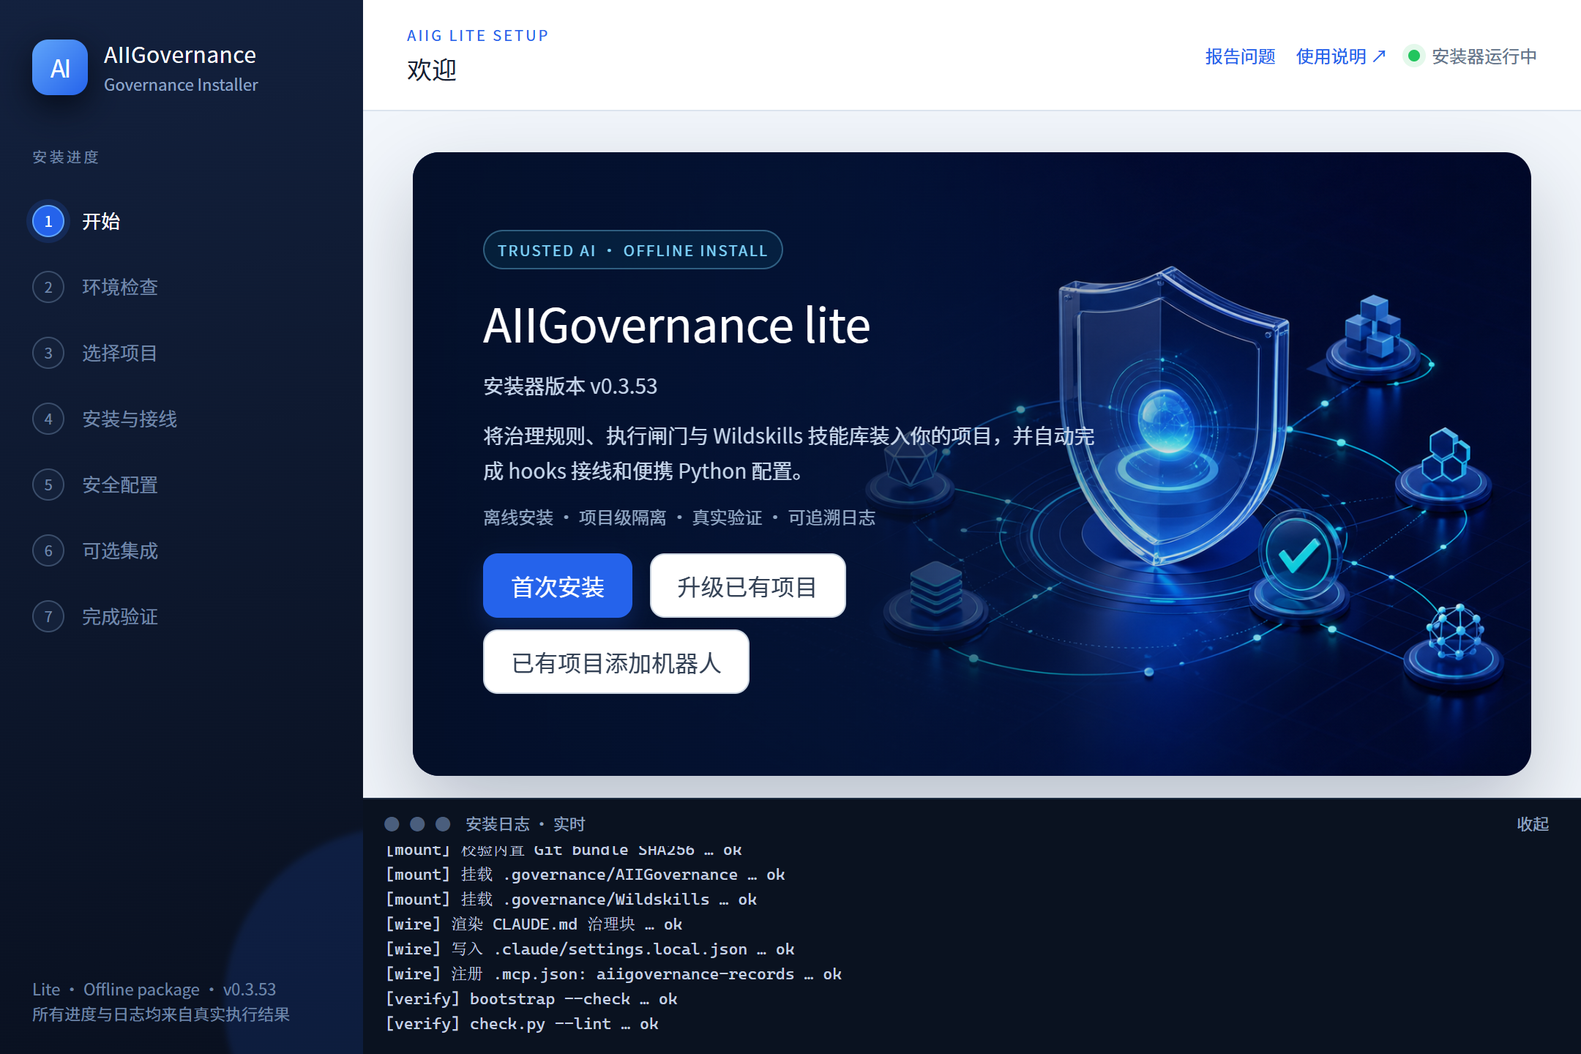
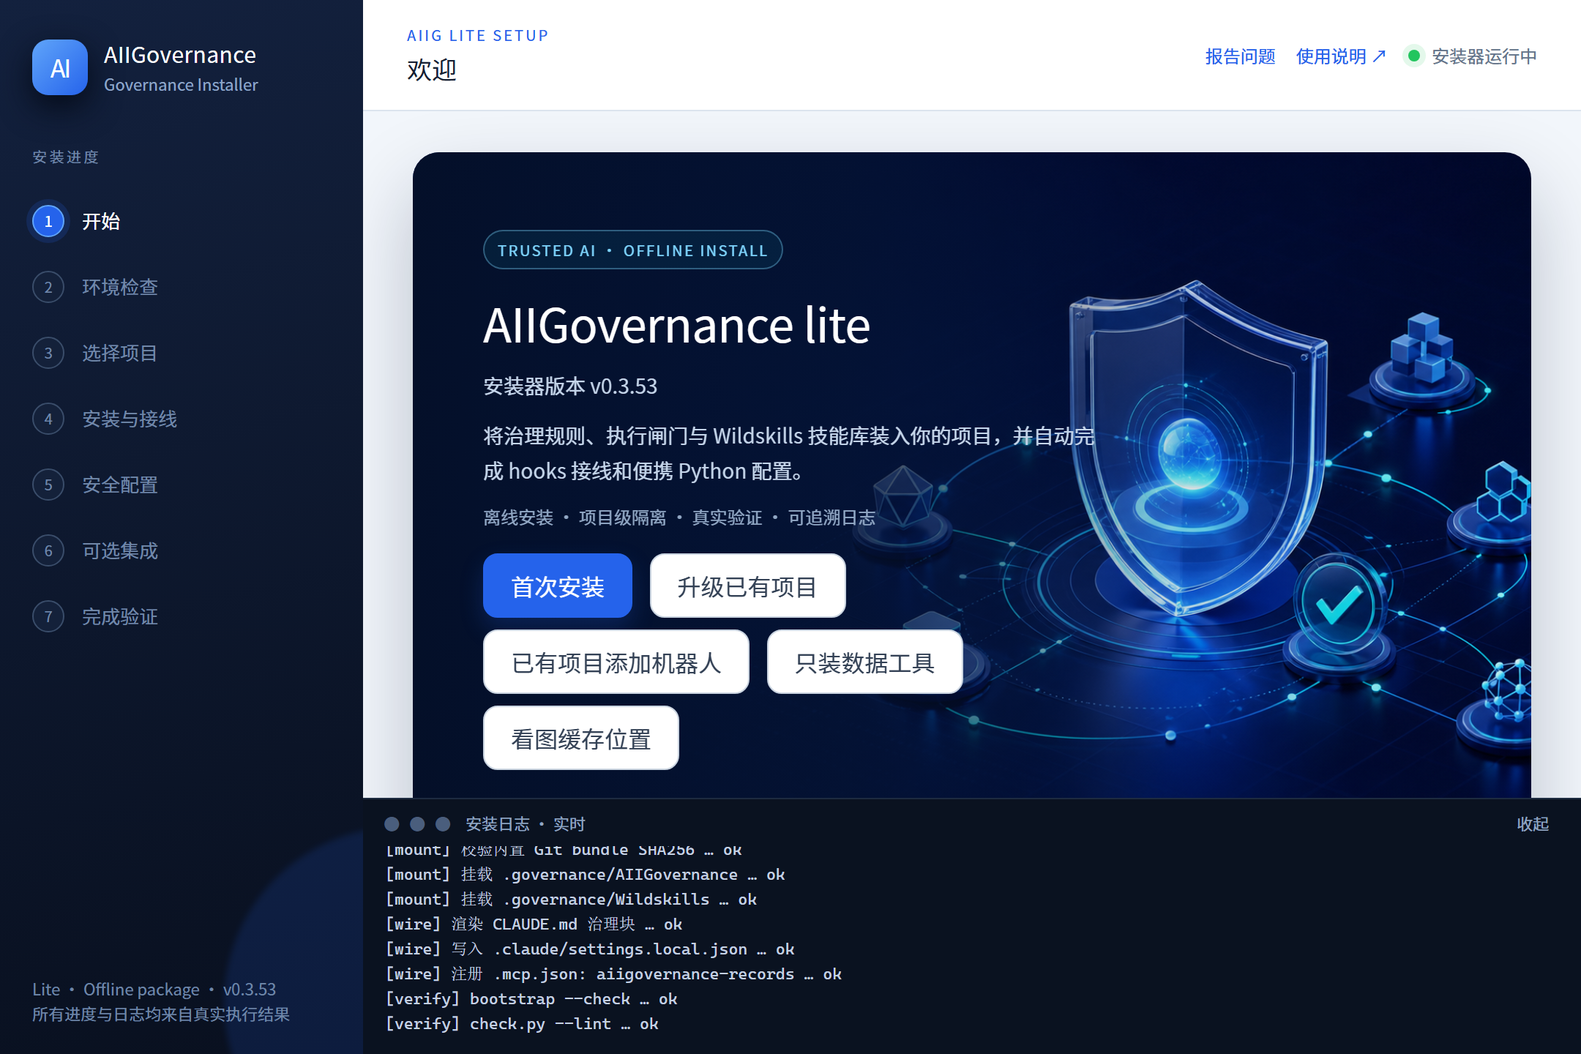
0.3.90 内容：看图缓存放哪、自动对齐和拍摄方向、报告的拍摄方向；下载信息同步到 0.3.90
- 「查看数据和结果对比」：各列尺寸不同时怎么画（按比例放大、按内容自动对齐、
  拍摄方向、对不上不画）；新节「看图缓存放哪」（安装器首页按钮、步骤、被拒的
  原因、盘不在时）；报告按拍摄方向画、报告里不能自动对齐；常见问题六行；
  20 GB 说法改成默认值。
- 快速开始：安装器首页五个入口，重截首页图。
- 更新说明 0.3.90；下载信息由 sync:release 从 installer-v0.3.90 写入。
- 截图脚本：假桥加看图缓存位置页的数据，STATES 加 viewer_cache。
  只换了 welcome.png、新加 viewer_cache.png，其余安装器截图没重截。

Claude-Session: https://claude.ai/code/session_01Dq1FxKBycmGyXBiYwHn92z

Changed region(s): [[0.2481, 0.25, 0.9926, 0.7812]]

diff --git a/app/content/platform.tsx b/app/content/platform.tsx
@@ -338,7 +338,7 @@ export const dataPlatform: DocPage = {
 export const dataReview: DocPage = {
   group: "管理平台", label: "查看数据和结果对比", title: "查看数据和结果对比",
   intro: "在 Claude Code 里说要看什么，agent 查出已有的数据和对比，缺的部分登记好，再把选中的图拷到本机，给出对比网页地址。已经下载过的对比，再说一句就能接着看。",
-  keywords: ["数据对比", "结果对比", "查看器", "评审", "open_review_viewer", "register_data_asset", "get_review_bundle", "备注", "HTML 报告", "export_review_report", "合并集", "数据已更新", "重新对齐", "没有图片", "lq", "gt"],
+  keywords: ["数据对比", "结果对比", "查看器", "评审", "open_review_viewer", "register_data_asset", "get_review_bundle", "备注", "HTML 报告", "export_review_report", "合并集", "数据已更新", "重新对齐", "没有图片", "lq", "gt", "自动对齐", "拍摄方向", "看图缓存位置", "缓存上限"],
   sections: [
     {
       id: "before", title: "使用前提",
@@ -346,7 +346,7 @@ export const dataReview: DocPage = {
         <Matrix
           head={["条件", "要求", "不满足时"]}
           rows={[
-            ["安装器", "v0.3.86 起能在对话里建合并集、重新对齐。v0.3.84 起能导出 HTML 报告。v0.3.83 起再次打开已下载的对比不用确认。v0.3.82 起带提问引导。v0.3.81 起有查看器", <>重新运行安装器。不用治理框架的电脑选<a key="a" href={pageHref("data") + "#data-only"}>只装数据工具</a></>],
+            ["安装器", "v0.3.90 起能在安装器首页改看图缓存的位置和上限，导出报告按拍摄方向画。v0.3.86 起能在对话里建合并集、重新对齐。v0.3.84 起能导出 HTML 报告。v0.3.83 起再次打开已下载的对比不用确认。v0.3.82 起带提问引导。v0.3.81 起有查看器", <>重新运行安装器。不用治理框架的电脑选<a key="a" href={pageHref("data") + "#data-only"}>只装数据工具</a></>],
             ["账号", "是这个项目的成员。负责人、成员、只读成员都能看图和写备注；登记数据要负责人或成员", "找项目负责人加成员"],
             ["访问 NAS", "Windows 在资源管理器里打开过一次共享；macOS、Linux 已挂载，并在身份目录的 nas_mounts.json 写上共享名和挂载点", "工具会提示先打开共享"],
             ["数据位置", "数据所在的位置填好了 NAS 共享名", "数据管理员在「数据位置」页补填"],
@@ -425,7 +425,18 @@ export const dataReview: DocPage = {
           ]}
         />
         <Figure src="screenshots/data/review-wipe.png" alt="滑动对比：窗口左边是参照，右边是这一列" caption="滑动对比：竖线左边是参照（这里是测试输入），右边是这一列自己的图。" source="console-fixture" />
-        <p>各列尺寸不同时（比如超分的测试输入比结果小），小图按比例放大到和别的列对齐，窗口标题写「放大 ×2 显示」。不是按比例缩放来的图（长宽比不同，或者补过边）不画，窗口里写明它的尺寸。</p>
+        <p>各列尺寸不同时，面积最大的那张当基准，其他列按下面的办法画到基准上：</p>
+        <Matrix
+          head={["情况", "怎么画", "窗口标题"]}
+          rows={[
+            ["按比例缩放来的，比如超分的测试输入比结果小", "放大到和基准一样大", "放大 ×2 显示"],
+            ["视野不同，比如 360 拍的是输入中间一块、放大倍数不是整数", "按画面内容自动对齐（2026-11-13 起）：试左上角、居中两种放法和一串倍数，找最像的位置。每个样本第一次打开时显示「正在自动对齐…」，约半秒", "自动对齐：放大 1.185 倍、居中，相似度 0.99"],
+            ["找不到对得上的位置，比如两列不是同一块画面", "不画", "自动对齐没找到对得上的位置（最像的地方相似度 0.41），没有画"],
+            ["手机拍的 JPEG 带转向标记，模型没按标记转（结果是横的）", "原图也画成没转的样子，和结果一致", "按拍摄方向标记没转，和其他列一致"],
+            ["方向挑过了宽高还是对调", "不画", "宽高对调，多半是拍摄方向不一致，没有画"],
+          ]}
+        />
+        <p>相似度低于 0.8 时，看一眼边缘对不对得上。自动对齐只在数据平台网页上有，导出的 HTML 报告里没有，见<a href="#report">导出 HTML 报告</a>。</p>
         <p>备注有两种，写的地方不同：</p>
         <ul>
           <li><b>写在这张图上</b>：用图下面的备注框。默认勾着「带上当前查看区域」：框选过就记框的那块，没框就记当时窗口里看到的那块，旁边写着是原图上哪一块。</li>
@@ -526,7 +537,7 @@ export const dataReview: DocPage = {
       body: <>
         <ul>
           <li><b>拷贝前先报方案。</b>工具先报样本数、文件数和大小，已有一部分在本机时会写明还要拷多少，你确认后才拷贝。默认随机 100 个，还要拷的量超过 5 GB 时要再确认一次。</li>
-          <li><b>图拷到本机缓存并逐个核对。</b>缓存上限 20 GB，最久没用的先淘汰。页面在数据平台上，图从你自己的电脑读取。</li>
+          <li><b>图拷到本机缓存并逐个核对。</b>缓存默认在 C 盘的身份目录下，上限 20 GB，最久没用的先淘汰；v0.3.90 起可以换位置、调上限，见<a href="#cache">看图缓存放哪</a>。页面在数据平台上，图从你自己的电脑读取。</li>
           <li><b>写在某张图上的备注</b>：用图下面的备注框。备注会记下这张图和当前查看区域。</li>
           <li><b>写给整个对比或数据集的备注</b>：点右侧的「写整体备注」，写完自动收起。</li>
           <li><b>同项目成员能看到备注。</b>备注记在写的人的账号下。网页上能看，也可以让 agent 用 <code>list_review_notes</code> 查。</li>
@@ -555,7 +566,32 @@ export const dataReview: DocPage = {
           ]}
         />
         <Figure src="screenshots/data/review-no-viewer.png" alt="小服务退出后的提示和复制按钮" caption="小服务没在运行时，血缘、对齐报告和备注照常显示，图片位置给出可以复制的那句话。" source="console-fixture" />
-        <p>两个限制：要能连上数据平台，因为页面在云端，图片清单也要向公司服务器取，不能完全离线；所有对比共用 20 GB 缓存，超过后最久没用的会被淘汰，再看时要重新拷贝。</p>
+        <p>两个限制：要能连上数据平台，因为页面在云端，图片清单也要向公司服务器取，不能完全离线；所有对比共用一个缓存（默认 20 GB），超过后最久没用的会被淘汰，再看时要重新拷贝。</p>
+      </>,
+    },
+    {
+      id: "cache", title: "看图缓存放哪",
+      body: <>
+        <p>v0.3.90 起，看图缓存可以换到别的文件夹、调上限。C 盘不够用，或者想一次看完一个大测试集（比如 447 个样本、23 GB）时用。</p>
+        <ol>
+          <li>打开安装器（0.3.90 或更新），首页点「看图缓存位置」。不选项目、不登录，同一版安装器随时打开都能改。</li>
+          <li>页面先写现在的位置、用了多少、上限、开着几个查看器。</li>
+          <li>选「改到这个文件夹」，点「选择文件夹…」挑一个，比如 <code>E:\aiig</code>；或者选「放回默认位置」。上限选 20、50、100 或 200 GB，这个盘放不下的档位是灰的。</li>
+          <li>点「应用」。成功后完成页写新位置、上限、旧位置清掉了多少。</li>
+        </ol>
+        <Figure src="screenshots/installer/viewer_cache.png" alt="安装器的看图缓存位置页：现在的位置和用量，改到某个文件夹或放回默认位置，上限下拉框" caption="看图缓存位置页。会在选的文件夹里建一个 AIIGovernance-viewer-cache 文件夹，只有你自己能看。" source="installer-stub" />
+        <Warn title="换位置会清掉旧缓存">开着的查看器会关掉，旧位置的图会删掉（都是 NAS 上图的副本），之后要看的图从 NAS 重新拷。导出报告前也要先重新打开一次查看器。升级前就开着的 Claude Code 会话跑的还是旧程序，不认新位置，重开一次。</Warn>
+        <Matrix
+          head={["点「应用」后页面说", "原因", "处理"]}
+          rows={[
+            ["在网络盘上", "选了网络盘或映射的网络驱动器", "选这台电脑自己的磁盘"],
+            ["设不了只给你自己看的权限", "这个盘是 U 盘格式（FAT32、exFAT）", "换一个 NTFS 盘"],
+            ["这个路径太长了", "Windows 上整条路径不能超过 260 个字符，缓存还要往下建几层", "选浅一点的文件夹，页面会写最长多少个字符，比如 E:\\aiig"],
+            ["这个盘只剩 X GB，上限放不下", "剩余空间比上限小", "选小一点的上限，或者换一个盘"],
+            ["里面已经有别的东西", "选的文件夹里已经有同名的 AIIGovernance-viewer-cache 文件夹，又不是这台电脑建的", "换一个文件夹"],
+          ]}
+        />
+        <p>选的盘没接上、盘符变了时，看图会直接说「看图缓存设在 …，现在找不到这个文件夹」，不会悄悄拷回 C 盘。接上盘再试，或者重开安装器换位置。卸载不删缓存，换到别处的缓存不用了要自己删。</p>
       </>,
     },
     {
@@ -570,6 +606,7 @@ export const dataReview: DocPage = {
         <Figure src="screenshots/data/report-page.png" alt="报告顶部：内部资料提示、血缘图、成员表" caption="报告顶部：内部资料提示、血缘图、成员表和对齐报告。" source="console-fixture" />
         <Figure src="screenshots/data/report-cards.png" alt="报告里的看图区，三个窗口，框出备注里的区域" caption="报告和查看页面是同一种看法：勾选列、缩放、拖动、框选、参照、滑动对比都能用。备注只读，点「跳到这个区域」会框出那块。" source="console-fixture" />
         <p>v0.3.88 起导出的报告是这个样子。之前导出的报告还是一样本一张卡片，点带区域的备注只移到当时的中心。</p>
+        <p>v0.3.90 起，报告按 JPEG 的拍摄方向画，规则和网页一样：原图带转向标记、模型结果没转的，原图画成没转的样子，标题写「按拍摄方向标记没转」。报告里<b>不能按内容自动对齐</b>：双击打开的报告读不了本机图片的像素，视野不同的列不画，写「报告里不能自动对齐，请在数据平台网页上看」。</p>
         <Code>{`夜景两次测试-20261102-1530/     默认放在用户目录的 AIIGovernance-reports 下
   index.html                    报告页面
   images/                       原图
@@ -582,9 +619,10 @@ export const dataReview: DocPage = {
             ["提示目录里已经有文件", "指定的输出目录不是空的", "换一个目录，或者不指定，自动生成新目录"],
             ["发给别人后图不显示", "只发了 index.html", "发整个目录"],
             ["某一列只有「原图」链接", "TIFF、EXR 或转不了的文件，浏览器显示不了", "点链接下载原图"],
+            ["某一列写「报告里不能自动对齐」", "这一列和基准视野不同，要按内容对齐，报告里做不了", "在数据平台网页上看这个样本"],
           ]}
         />
-        <p>报告生成后不会更新，新写的备注不会进去，要最新内容就再导出一份。报告不计入 20 GB 缓存，用完自己删。备注只能在查看页面上写。</p>
+        <p>报告生成后不会更新，新写的备注不会进去，要最新内容就再导出一份。报告不计入看图缓存，用完自己删。备注只能在查看页面上写。</p>
       </>,
     },
     {
@@ -620,7 +658,12 @@ export const dataReview: DocPage = {
             ["小服务在跑但图片全空", "浏览器没有允许访问本地网络", "地址栏左侧的站点设置里打开「本地网络访问」"],
             ["进评审页提示没有权限", "账号不属于任何项目", "找项目负责人加成员"],
             ["按空格没有反应", "鼠标不在图上，或光标在输入框里", "把鼠标移到图上再按"],
-            ["窗口写「不是其他列按比例缩放来的」", "这一列长宽比不同，或者补过边、裁过边", "正常，硬拉过去会错位；单独打开那张图看"],
+            ["窗口写「自动对齐：放大 N 倍、居中，相似度 0.xx」", "这一列和基准视野不同，按画面内容对齐的", "正常；相似度低于 0.8 时看一眼边缘对不对得上"],
+            ["窗口写「自动对齐没找到对得上的位置」", "两列不是同一块画面，或者裁的位置既不在左上也不在中间；夜里的暗图也常对不上", "单独打开那张图看"],
+            ["窗口写「按拍摄方向标记没转，和其他列一致」", "原图带转向标记，模型结果没转", "正常"],
+            ["窗口写「宽高对调，多半是拍摄方向不一致」", "方向挑过了还是对不上", "把原图转正后另存为 PNG 再登记"],
+            ["工具说「看图缓存设在 …，现在找不到这个文件夹」", "缓存换到了移动硬盘之类，盘没接上或盘符变了", <>接上盘再试，或者重开安装器换位置，见<a key="a" href="#cache">看图缓存放哪</a></>],
+            ["拷图失败写「写不进看图缓存」", "缓存文件夹被删了、盘被拔掉，或者路径太长", "接上盘，或者在安装器里换一个浅一点的文件夹"],
             ["窗口写「放大 ×2 显示」", "这一列原图比别的列小，比如超分的输入", "正常，看到的像素块就是原图的像素"],
             ["报告里点备注只移了位置，没有框", "报告是 v0.3.88 以前导出的", "升级后重新导出"],
           ]}

diff --git a/app/release-notes.ts b/app/release-notes.ts
@@ -17,6 +17,18 @@ export type ReleaseNote = {
 };
 
 export const releaseNotes: Record<string, ReleaseNote> = {
+  "0.3.90": {
+    summary:
+      "功能版本：看图缓存可以换到别的文件夹、调上限；导出的 HTML 报告按照片的拍摄方向画图。MCP 工具还是 31 个，后台同步程序升到 0.4.24，治理框架没有变。",
+    highlights: [
+      "看图时要先把 NAS 上的图拷到这台电脑上，以前固定放在 C 盘的身份目录下，最多 20 GB。现在打开安装器，首页点「看图缓存位置」，可以改到别的文件夹（比如 E:\\aiig），上限选 20、50、100 或 200 GB。不选项目、不登录，同一版安装器随时打开都能改。",
+      "换位置时，开着的查看器会关掉，旧位置的缓存会清掉，之后要看的图从 NAS 重新拷；导出报告前也要先重新打开一次查看器。网络盘、U 盘格式（FAT32、exFAT）的盘不能选；Windows 上文件夹路径要在大约 100 个字符以内。不行的时候页面会说原因，什么都不改。",
+      "选的盘没接上、盘符变了时，看图会直接说「找不到这个文件夹」，不会悄悄拷回 C 盘。装完的摘要多一行，写看图缓存在哪、用了多少。",
+      "导出的 HTML 报告按 JPEG 的拍摄方向画：原图带转向标记、模型结果没转的，原图画成和结果一样的方向，标题写「按拍摄方向标记没转」；滑动对比时参照小的那一块不再露出底下的图。报告里不能按内容自动对齐，对不上的列写「请在数据平台网页上看」。",
+      "数据平台网页同时更新（不用升级安装器，11-13 已上线）：视野不同的列（比如 360 拍的是输入中间一块、放大倍数不是整数）按内容自动对齐，标题写放大倍数和相似度；带转向标记的 JPEG 挑和其他列一致的方向。",
+      "升级前就开着的 Claude Code 会话跑的还是旧程序，不认新的缓存位置，重开一次就好。",
+    ],
+  },
   "0.3.89": {
     summary:
       "功能版本：数据和测试结果可以经飞书在两地之间收发，收下来由数据服务器逐个文件核对后登记成副本；以前手工复制过去的也能登记成副本。MCP 工具还是 31 个。",

diff --git a/app/release-data.ts b/app/release-data.ts
@@ -41,38 +41,38 @@ export type ReleaseData = {
 };
 
 export const release: ReleaseData = {
-  version: "0.3.89",
-  tag: "installer-v0.3.89",
-  publishedAt: "2026-11-11T06:32:47Z",
-  releaseDate: "2026-11-11",
+  version: "0.3.90",
+  tag: "installer-v0.3.90",
+  publishedAt: "2026-11-13T03:01:41Z",
+  releaseDate: "2026-11-13",
   assets: [
     {
       platform: "Windows x64",
-      file: "AIIGovernance-Setup-installer-v0.3.89.exe",
[1 lines of base64/hex data omitted]
-      bytes: 143786034,
+      file: "AIIGovernance-Setup-installer-v0.3.90.exe",
[1 lines of base64/hex data omitted]
+      bytes: 143803260,
     },
     {
       platform: "Ubuntu / WSL x64",
-      file: "AIIGovernance-Setup-linux-x64-v0.3.89.tar.gz",
[1 lines of base64/hex data omitted]
-      bytes: 318762084,
+      file: "AIIGovernance-Setup-linux-x64-v0.3.90.tar.gz",
[1 lines of base64/hex data omitted]
+      bytes: 318780967,
     },
     {
       platform: "macOS Apple Silicon",
-      file: "AIIGovernance-Setup-macos-arm64-v0.3.89.zip",
[1 lines of base64/hex data omitted]
-      bytes: 97169649,
+      file: "AIIGovernance-Setup-macos-arm64-v0.3.90.zip",
[1 lines of base64/hex data omitted]
+      bytes: 97188920,
     },
     {
       platform: "macOS Intel",
-      file: "AIIGovernance-Setup-macos-x64-v0.3.89.zip",
[1 lines of base64/hex data omitted]
-      bytes: 96392125,
+      file: "AIIGovernance-Setup-macos-x64-v0.3.90.zip",
[1 lines of base64/hex data omitted]
+      bytes: 96410842,
     },
   ],
   source: "github-release",
-  syncedAt: "2026-11-11T06:52:21Z",
+  syncedAt: "2026-11-13T03:20:22Z",
 };
 
 /** "0.3.53" → "v0.3.53" */

diff --git a/app/content/getting-started.tsx b/app/content/getting-started.tsx
@@ -161,9 +161,9 @@ QTWEBENGINE_CHROMIUM_FLAGS=--disable-gpu \\
       id: "wizard", title: "向导会做哪些事",
       body: <>
         <p>三个平台走同一条流程，侧栏的七步进度条对应下面这八件事。<b>身份核验在写入之前</b>：核验失败时项目里不会留下 <code>.governance</code>、<code>.mcp.json</code> 或任何其他安装痕迹。</p>
-        <Figure src="screenshots/installer/welcome.png" alt="安装器首页" caption="安装器首页的四个入口：首次安装、升级已有项目、已有项目添加机器人，以及从升级入口进入的卸载。" source="installer-stub" />
+        <Figure src="screenshots/installer/welcome.png" alt="安装器首页" caption="安装器首页的五个入口：首次安装、升级已有项目、已有项目添加机器人、只装数据工具、看图缓存位置。卸载从升级入口进入。" source="installer-stub" />
         <ol>
-          <li>首页选择首次安装、升级、卸载，或为已有项目添加机器人。</li>
+          <li>首页选择首次安装、升级、卸载，或为已有项目添加机器人。另外两个入口不走这条流程：「只装数据工具」见<a href={pageHref("data") + "#data-only"}>数据平台</a>，「看图缓存位置」见<a href={pageHref("data-review") + "#cache"}>查看数据和结果对比</a>。</li>
           <li>环境检查：图形后端、Python、Git 和 Claude Code。Linux/macOS 不显示 Windows 的 PortableGit 按钮，而是给出系统包管理器命令。</li>
           <li>选择项目目录；首次安装时如果目录还不是 Git 仓库，会先征求你的同意再执行 <code>git init</code>。</li>
           <li>选择这个目录所属的<b>产品线</b>（下一节详述）。可以不选。</li>

diff --git a/scripts/screenshots/stub-pywebview.js b/scripts/screenshots/stub-pywebview.js
@@ -196,6 +196,27 @@
         });
       },
 
+      // 首页「看图缓存位置」（安装器 0.3.90 起）。示意数据：默认位置、用了 17.3 GB，已选好 E:\aiig。
+      get_viewer_cache_offer: function () {
+        var gib = 1073741824;
+        return ok({
+          limits: [20, 50, 100, 200],
+          choice: { mode: "custom", dir: "E:\\aiig", limit_gb: 100 },
+          error: null,
+          status: {
+            state_dir: "C:\\ProgramData\\AIIGovernance\\RecordsAgent\\users\\0123456789abcdef",
+            has_identity: true, custom: false,
+            cache_dir: "C:\\ProgramData\\AIIGovernance\\RecordsAgent\\users\\0123456789abcdef\\viewer-cache",
+            cache_bytes: 17.3 * gib, limit_bytes: 20 * gib, limit_gb: 20, free_bytes: 130 * gib,
+            viewers: [{ running: true }, { running: false }],
+          },
+        });
+      },
+      choose_viewer_cache_dir_via_dialog: function () {
+        return ok({ dir: "E:\\aiig", free_bytes: 3200 * 1073741824 });
+      },
+      apply_viewer_cache: function () { return ok({ ok: true }); },
+
       report_page_marker: function () { return ok(true); },
       start_payload_preparation: function () { return ok(true); },
       open_usage_guide: function () { return ok(true); },
